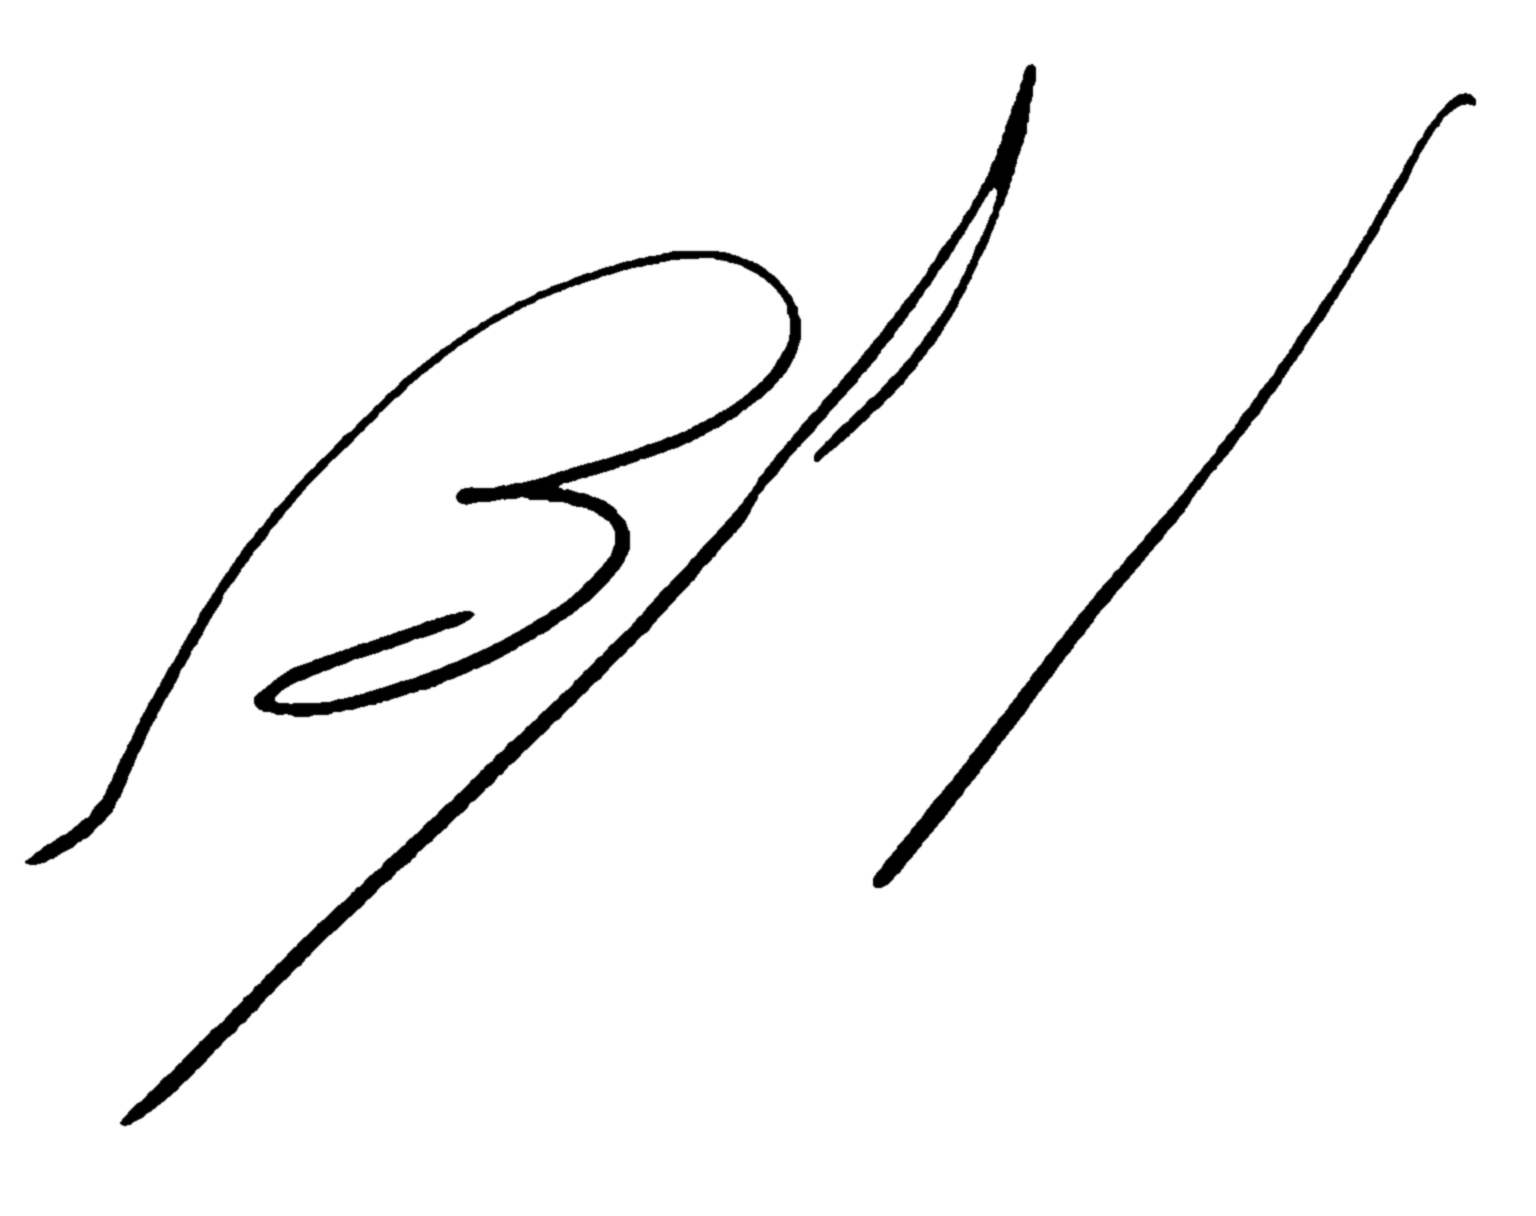
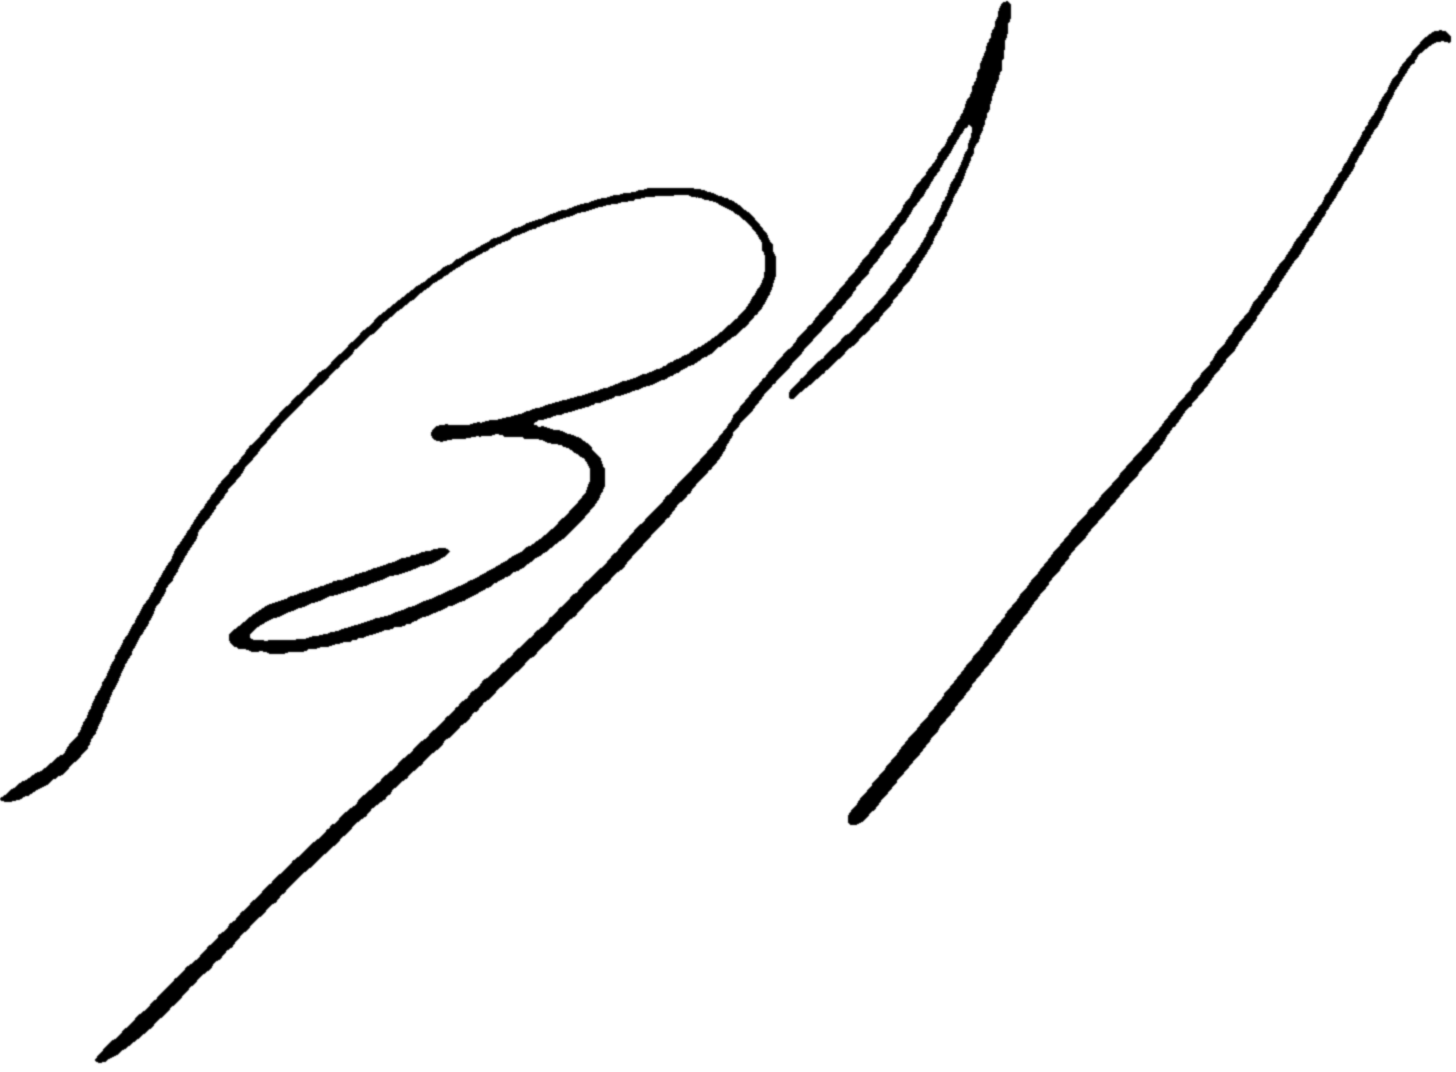
feat: Adjust minimum height for references EditableTextarea and update Beatriz Y. Pineda Gayon's signature image

diff --git a/components/report/sections/references.tsx b/components/report/sections/references.tsx
@@ -12,7 +12,7 @@ export const References = ({ references, updateDataField, readOnly }: References
         <EditableTextarea
             value={references || ""}
             onChange={(value) => updateDataField("references", value)}
-            className="w-full min-h-[10rem] text-gray-600 whitespace-pre-wrap leading-relaxed"
+            className="w-full text-gray-600 whitespace-pre-wrap leading-relaxed"
             readOnly={readOnly}
         />
     </div>
